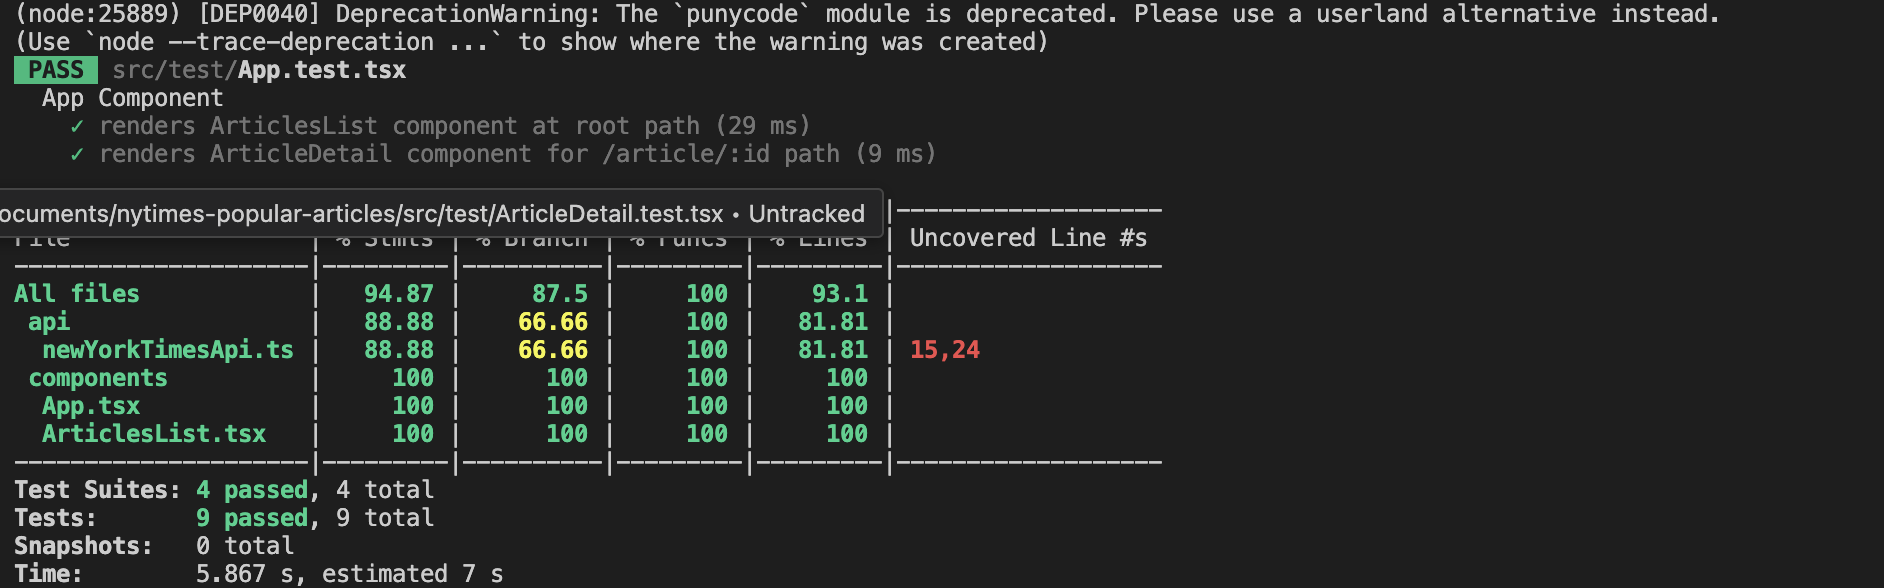
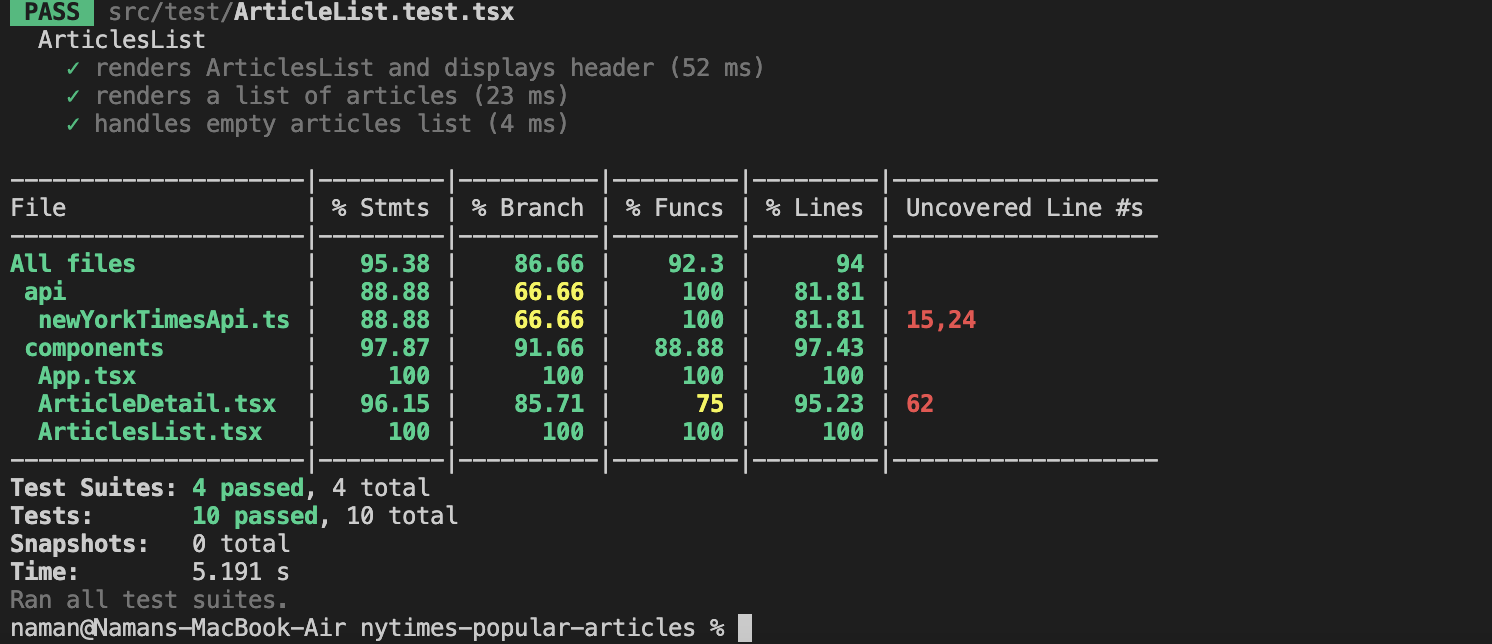
readme update

Changed region(s): [[0.0, 0.0, 0.9249, 1.0]]

diff --git a/src/test/ArticleDetail.test.tsx b/src/test/ArticleDetail.test.tsx
@@ -1,36 +1,86 @@
-// App.test.tsx
-import { render, screen } from '@testing-library/react';
-import React from 'react';
-import { MemoryRouter, Route, Routes } from 'react-router-dom';
-
-import App from '../components/App';
+import { render, screen, waitFor, fireEvent } from '@testing-library/react';
+import { Route, Routes,MemoryRouter } from 'react-router-dom';
 import ArticleDetail from '../components/ArticleDetail';
-import ArticlesList from '../components/ArticlesList';
+import { fetchArticleById } from '../api/newYorkTimesApi';
+import type { Article } from '../types/Articles';
 
-jest.mock('../components/ArticlesList', () => () => (
-  <div>Articles List Component</div>
-));
-jest.mock('../components/ArticleDetail', () => () => (
-  <div>Article Detail Component</div>
-));
+jest.mock('../api/newYorkTimesApi', () => ({
+  fetchArticleById: jest.fn(),
+}));
 
-describe('App Component', () => {
-  test('renders ArticlesList component at root path', () => {
-    render(<App />);
+const mockArticle: Article = {
+  id: 1,
+  title: 'Sample Article',
+  abstract: 'This is a sample abstract.',
+  byline: 'By Author',
+  published_date: '2024-07-24',
+  url: 'https://example.com',
+  media: [
+    {
+      'media-metadata': [
+        { url: '' },
+        { url: '' },
+        { url: 'https://example.com/image.jpg' }
+      ]
+    }
+  ]
+};
 
-    expect(screen.getByText('Articles List Component')).toBeInTheDocument();
+describe('ArticleDetail', () => {
+  beforeEach(() => {
+    jest.resetAllMocks();
   });
 
-  test('renders ArticleDetail component for /article/:id path', async () => {
+  test('displays loading spinner while loading', () => {
+    (fetchArticleById as jest.Mock).mockResolvedValueOnce(mockArticle);
+
     render(
       <MemoryRouter initialEntries={['/article/1']}>
         <Routes>
-          <Route path="/" element={<ArticlesList />} />
+          <Route path="/article/:id" element={<ArticleDetail />} />
+        </Routes>
+        </MemoryRouter>
+    );
+
+    expect(screen.getByRole('progressbar')).toBeInTheDocument();
+  });
+
+  test('displays article details when loaded', async () => {
+    (fetchArticleById as jest.Mock).mockResolvedValueOnce(mockArticle);
+
+    render(
+      <MemoryRouter initialEntries={['/article/1']}>
+        <Routes>
           <Route path="/article/:id" element={<ArticleDetail />} />
         </Routes>
       </MemoryRouter>
     );
 
-    await screen.findByText('Article Detail Component');
+    await waitFor(() => {
+      expect(screen.getByText('Sample Article')).toBeInTheDocument();
+      expect(screen.getByText('This is a sample abstract.')).toBeInTheDocument();
+      expect(screen.getByText('By Author')).toBeInTheDocument();
+      expect(screen.getByText('2024-07-24')).toBeInTheDocument();
+      expect(screen.getByText('Read more')).toHaveAttribute('href', 'https://example.com');
+    });
+
+    const image = screen.getByRole('img');
+    expect(image).toHaveAttribute('src', 'https://example.com/image.jpg');
+  });
+
+  test('displays article not found message when no article is found', async () => {
+    (fetchArticleById as jest.Mock).mockResolvedValueOnce(null);
+
+    render(
+      <MemoryRouter initialEntries={['/article/1']}>
+        <Routes>
+          <Route path="/article/:id" element={<ArticleDetail />} />
+        </Routes>
+      </MemoryRouter>
+    );
+
+    await waitFor(() => {
+      expect(screen.getByText('Article not found')).toBeInTheDocument();
+    });
   });
 });

diff --git a/src/api/newYorkTimesApi.ts b/src/api/newYorkTimesApi.ts
@@ -2,7 +2,7 @@ import axios from 'axios';
 
 import type { Article } from '../types/Articles';
 
-export const API_KEY = '';
+export const API_KEY = 'Qlh1bEUZNnwoAR6F47AiQhDqEGsUDGdl';
 export const BASE_URL = 'https://api.nytimes.com/svc/mostpopular/v2/viewed';
 
 export const fetchArticles = async (period: number = 1): Promise<Article[]> => {

diff --git a/README.md b/README.md
@@ -14,9 +14,6 @@ This project is a simple web application that fetches and displays the most popu
 
 ## Getting Started
 
-### Please note the api and sonar keys are not shared in the repo due to security reasons
-
-
 ### Prerequisites
 
 - Node.js (v18 or higher recommended)
